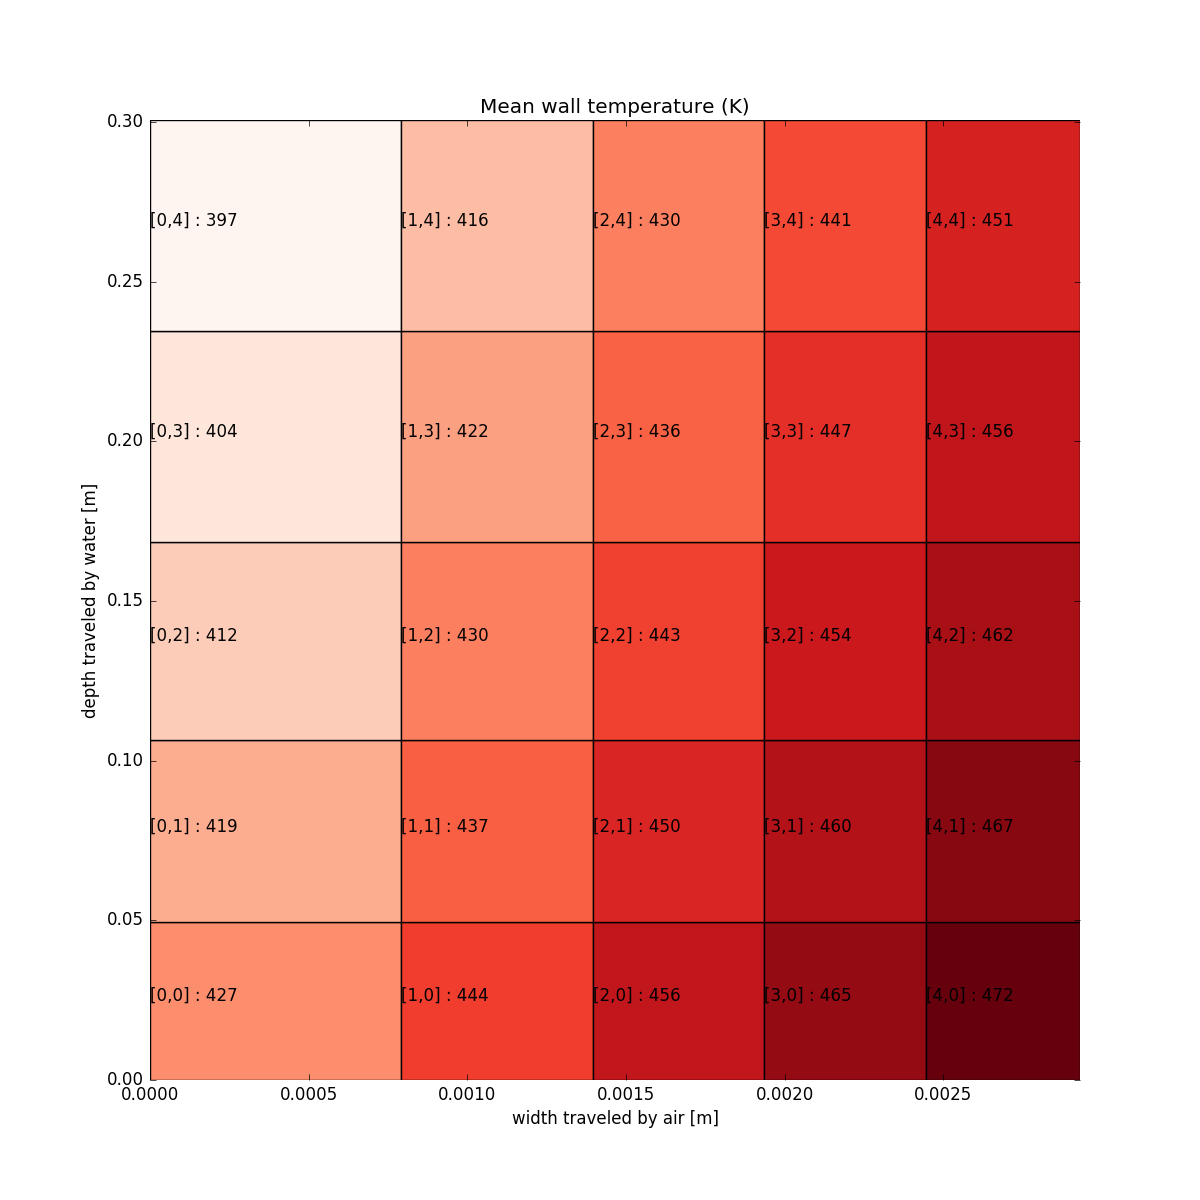
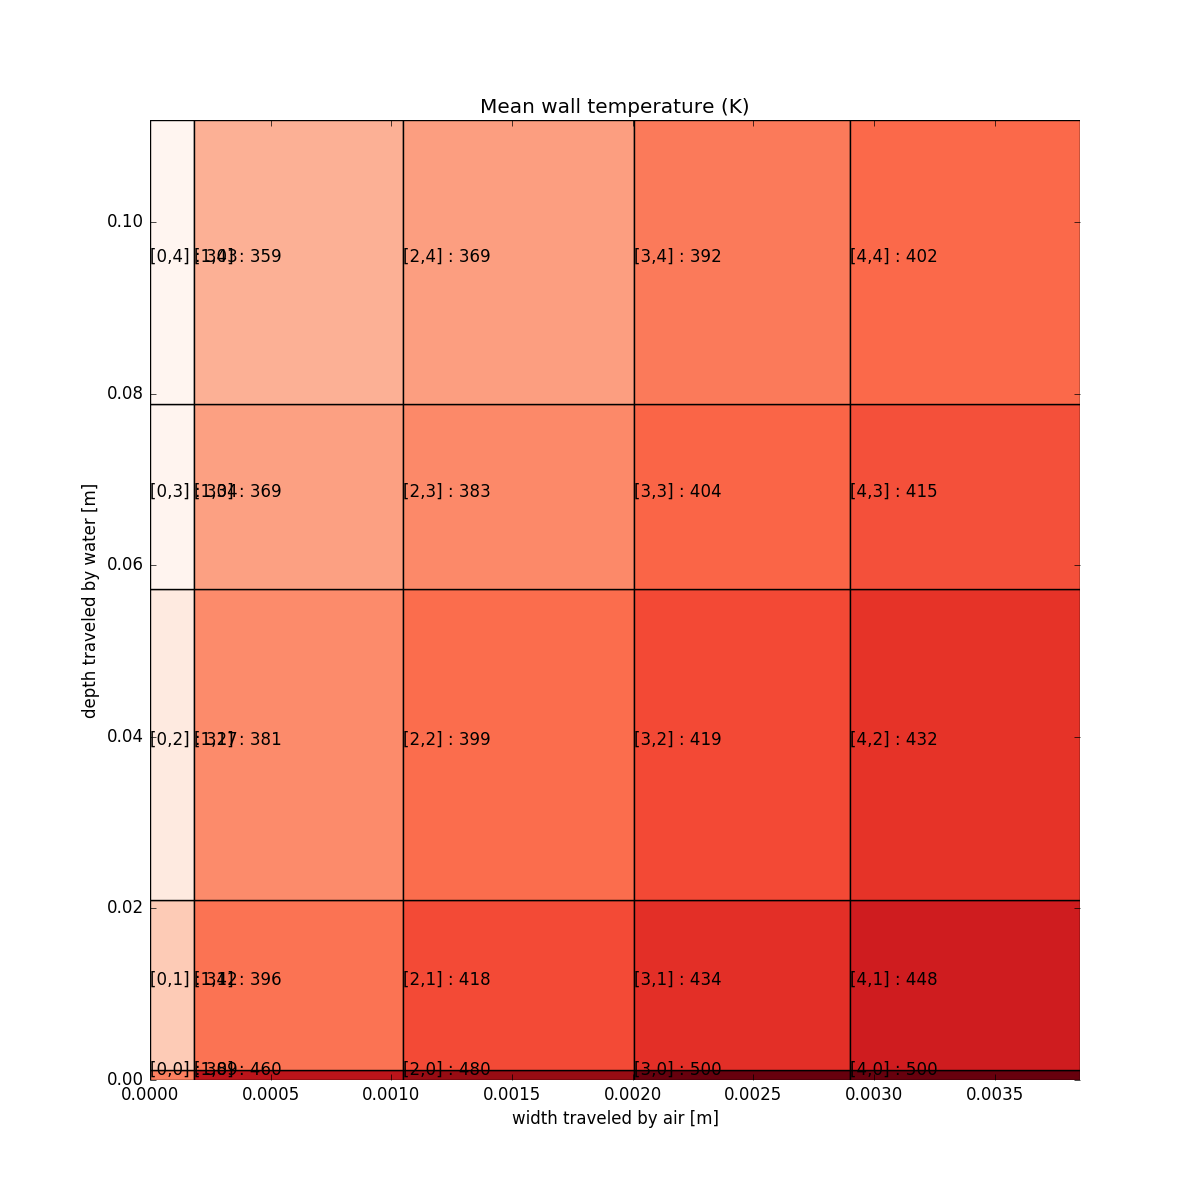
Got something working, finally. Have notional cell heights.

diff --git a/heatexchanger/layer.py b/heatexchanger/layer.py
@@ -50,28 +50,55 @@ class Layer(Model):
             #       it's already alllllmost GP, solving in 3-9 GP solves
             SP_Qsum = Q <= c.dQ.sum()
             for i in range(Nwaterpipes):
-                waterCf.extend([waterpipes.D[i] >= waterpipes.fr[i]*waterpipes.w[i]*waterpipes.h_seg[i,0]])
+                waterCf.extend([waterpipes.D[i] >= waterpipes.fr[i]*waterpipes.A_seg[i,0]])
                 for j in range(Nairpipes):
                     waterCf.extend([waterpipes.l[i,j] <= sum(airpipes.w[0:j+1]),
-                                    waterpipes.dP[i,j] >= 0.5*water.rho*waterpipes.v_avg[i,j]**2*waterpipes.Cf[i,j]*airpipes.w[j]/waterpipes.dh[i],
-                                    waterpipes.D_seg[i,j] == 0.5*water.rho*waterpipes.v_avg[i,j]**2*waterpipes.Cf[i,j]*waterpipes.w[i]*airpipes.w[j],
+                                    waterpipes.dP[i,j] >= 0.5*water.rho*waterpipes.v_avg[i,j]**2*waterpipes.Cf[i,j]*waterpipes.l_seg[i,j]/waterpipes.dh[i,j],
+                                    waterpipes.D_seg[i,j] == 0.5*water.rho*waterpipes.v_avg[i,j]**2*waterpipes.Cf[i,j]*waterpipes.w[i]*waterpipes.l_seg[i,j],
                                             ])
             for i in range(Nairpipes):
-                airCf.extend([airpipes.D[i] >= airpipes.fr[i]*airpipes.w[i]*airpipes.h_seg[i,0]])
+                airCf.extend([airpipes.D[i] >= airpipes.fr[i]*airpipes.A_seg[i,0]])
                 for j in range(Nwaterpipes):
                     airCf.extend([airpipes.l[i,j] <= sum(waterpipes.w[0:j+1]),
-                                airpipes.dP[i,j] == 0.5*air.rho*airpipes.v_avg[i,j]**2*airpipes.Cf[i,j]*waterpipes.w[j]/airpipes.dh[i],
-                                airpipes.D_seg[i,j] == 0.5*air.rho*airpipes.v_avg[i,j]**2*airpipes.Cf[i,j]*airpipes.w[i]*waterpipes.w[j],
+                                  airpipes.dP[i,j] >= 0.5*air.rho*airpipes.v_avg[i,j]**2*airpipes.Cf[i,j]*airpipes.l_seg[i,j]/airpipes.dh[i,j],
+                                  airpipes.D_seg[i,j] == 0.5*air.rho*airpipes.v_avg[i,j]**2*airpipes.Cf[i,j]*airpipes.w[i]*airpipes.l_seg[i,j],
                                             ])
-        geom = [V_tot >= sum(sum(c.V_hot)) + sum(sum(c.V_cold))]
+
+        geom = [V_tot >= sum(sum(waterpipes.V_seg)) + sum(sum(airpipes.V_seg))]
+
+        # Arbitrary bounding for convergence.
+        for i in range(Nwaterpipes):
+            continue
+            geom.extend([waterpipes.w[i] >= 0.1*units('cm'),
+                         waterpipes.h_seg[i,:] >= 0.1*units('cm'),
+                         ])
+        for j in range(Nairpipes):
+            continue
+            geom.extend([airpipes.w[j] >= 0.1*units('cm'),
+                         airpipes.h_seg[j,:] >= 0.1*units('cm'),
+                         ])
         for i in range(Nwaterpipes):
             for j in range(Nairpipes):
-                    geom.extend([c.w_cell[i,j] == waterpipes.w[i],
-                                 c.d_cell[i,j] == airpipes.w[j],
-                                 c.w_cell[i,j] >= 1*units('cm'),
-                                 c.d_cell[i,j] >= 1*units('cm'),
-                                 c.h_cold[i,j] >= 0.1*units('cm'),
-                                 c.h_hot[i,j] >= 0.1*units('cm')])
+                geom.extend([c.x_cell[i,j] == waterpipes.w[i],
+                             c.x_cell[i,j] == airpipes.l_seg[j,i],
+                             c.y_cell[i,j] == airpipes.w[j],
+                             c.y_cell[i,j] == waterpipes.l_seg[i,j],
+                             ])
+
+        # Linking pipes in c
+        for i in range(Nwaterpipes):
+            for j in range(Nairpipes):
+                geom.extend([
+                        c.dQ[i,j] == waterpipes.dQ[i,j],
+                        c.dQ[i,j] == airpipes.dQ[j,i],
+                        c.T_r[i,j] == waterpipes.Tr_int[i,j],
+                        c.T_r[i,j] == airpipes.Tr_int[j,i],
+                        c.T_hot[i,j] == waterpipes.T_avg[i,j],
+                        c.T_cld[i,j] == airpipes.T_avg[j,i],
+                        c.T_hot[i,j] >= c.T_r[i,j],
+                        c.T_r[i,j] >= c.T_cld[i,j],
+                    ])
+
         return [
             # SIZING
             geom,
@@ -80,23 +107,7 @@ class Layer(Model):
 
             # CONSERVATION OF HEAT
             SP_Qsum,
-            c.dQ == waterpipes.dQ,
-            c.dQ == airpipes.dQ.T,   # airpipes are rotated 90deg
-            c.T_r == waterpipes.Tr_int,
-            c.T_r == airpipes.Tr_int.T,
-
-            # HEAT EXCHANGE
-            c, c.A_hx == airpipes.w.outer(waterpipes.w),
-            c.T_hot == waterpipes.T[1:],  # Tcell = Tout (conservative)
-            # NOTE: cell temperature could instead be a geometric mean
-            #       of input and output
-            c.T_cld == airpipes.T[1:].T,  # airpipes are rotated 90deg
-
-            # Coupling geometry
-            c.V_cold == waterpipes.V_seg,
-            c.V_hot == airpipes.V_seg.T,
-            c.h_hot == waterpipes.h_seg,
-            c.h_cold == airpipes.h_seg.T,
+            c,
 
             #DRAG
             waterCf,
@@ -106,7 +117,7 @@ class Layer(Model):
 
 if __name__ == "__main__":
     m = Layer(5, 5)
-    m.cost = 1/m.Q + 100*m.waterpipes.D.sum()*units('1/(N*W)')+ 100*m.airpipes.D.sum()*units('1/(N*W)')
+    m.cost = 1/m.Q + 100*m.waterpipes.D.sum()*units('1/(N*W)')+ 1000*m.airpipes.D.sum()*units('1/(N*W)') + 1000*m.waterpipes.D_seg.sum()*units('1/(N*W)')+ 100*m.airpipes.D_seg.sum()*units('1/(N*W)')
     #m = Model(m.cost,Bounded(m))
     m = relaxed_constants(m)
     sol = m.localsolve(verbosity=4)

diff --git a/heatexchanger/cellplot.py b/heatexchanger/cellplot.py
@@ -1,4 +1,6 @@
 from matplotlib.pyplot import *
+import numpy as np
+from mpl_toolkits.mplot3d import Axes3D
 
 def nsf(num, n=1):
     """n-Significant Figures"""
@@ -42,16 +44,52 @@ def plot_cells(m, Z, cm=cm.RdBu_r, verbosity=0, zscale=None, zoff=None):
     a.set_ylabel("depth traveled by water [m]")
     return f, a
 
+def hist_cells(m, Z, cm=cm.RdBu_r, verbosity=0, zscale=None, zoff=None):
+    "Plots a given array for every heat-exchange cell"
+    sol = m.solution
+    Nwaterpipes = m.original.Nwaterpipes
+    Nairpipes = m.original.Nairpipes
+    Zmin, Zmax = Z.min(), Z.max()
+    dpos = 0
+
+    fig = plt.figure()
+    ax = fig.add_subplot(111, projection='3d')
+    #x = 
+
+    # Construct arrays for the anchor positions of the 16 bars.
+    # Note: np.meshgrid gives arrays in (ny, nx) so we use 'F' to flatten xpos,
+    # ypos in column-major order. For numpy >= 1.7, we could instead call meshgrid
+    # with indexing='ij'.
+    xpos, ypos = np.meshgrid(xedges[:-1] + 0.25, yedges[:-1] + 0.25)
+    xpos = xpos.flatten('F')
+    ypos = ypos.flatten('F')
+    zpos = np.zeros_like(xpos)
+
+
+    ylim([0, wpos])
+    xlim([0, dpos])
+    a.set_frame_on(False)
+    a.set_xlabel("width traveled by air [m]")
+    a.set_ylabel("depth traveled by water [m]")
+    return f, arun
+
 
 if __name__ == "__main__":
     from layer import Layer
     Nw, Na = 5, 5
     print sol(m.original.c.dQ).min(), 0.625/Nw/Na
 
+    # Liquid temperature
     f, a = plot_cells(m, sol(m.original.c.T_hot), cm=cm.Reds, zscale=1/Nw/Na, zoff=0.625/Nw/Na, verbosity=2)
     a.set_title("Liquid Temperature [K]")
     f.savefig("plots/T_liq.png")
 
+    # Air temperature
+    f, a = plot_cells(m, sol(m.original.c.T_cld), cm=cm.Blues, zscale=1/Nw/Na, zoff=0.625/Nw/Na, verbosity=2)
+    a.set_title("Air Temperature [K]")
+    f.savefig("plots/T_air.png")
+
+    # Heat transfer
     Q = sol(m.original.Q).magnitude
     f, a = plot_cells(m, sol(m.original.c.dQ), cm=cm.Reds, zscale=1/Nw/Na, zoff=0.625/Nw/Na, verbosity=2)
     a.set_title("Heat Transfer (%.2f Watts total)" % Q)

diff --git a/heatexchanger/rectpipe.py b/heatexchanger/rectpipe.py
@@ -7,7 +7,6 @@ class RectangularPipe(Model):
     ---------
     mdot                  [kg/s]   mass flow rate
     w                     [m]      pipe width
-    dh                    [m]      hydraulic diameter
     T_in                  [K]      input temperature
     v_in                  [m/s]    input velocity
     v_out                 [m/s]    output velocity
@@ -31,8 +30,10 @@ class RectangularPipe(Model):
     -----------------------------
     dT                    [K]      Change in fluid temperature over segment
     dQ                    [W]      Magnitude of heat transfer over segment
+    T_avg                 [K]      Average temperature over segment
     v_avg                 [m/s]    Average fluid velocity over segment
     l                     [m]      Reference flow length
+    dh                    [m]      hydraulic diameter
     V_seg                 [m^3]    Segment volume
     A_seg                 [m^2]    Segment frontal area
     h_seg                 [m]      Segment height
@@ -45,7 +46,7 @@ class RectangularPipe(Model):
   
     Upper Unbounded
     ---------------
-    w, h, mdot, T_out (if increasingT), l, P0
+    w, mdot, T_out (if increasingT), l, P0
 
     Lower Unbounded
     ---------------
@@ -75,7 +76,8 @@ class RectangularPipe(Model):
         alpha = T[1:]/T[:-1]
 
         with SignomialsEnabled():
-            pressure = [v_in == v[0],
+            pressure = [T_avg**2 == T[1:]*T[:-1],
+                        v_in == v[0],
                         v_out == v[-1],
                         fr == Pf*(0.5*fluid.rho*v_in**2),  # force per frontal area
                         P0[0] <= P_in + 0.5*fluid.rho*v_in**2, # inlet total pressure

diff --git a/heatexchanger/hxarea.py b/heatexchanger/hxarea.py
@@ -1,6 +1,6 @@
 from gpkit import Model, parse_variables, SignomialsEnabled
 
-# Assumes hot water going S->N, and cold air going W->E
+# Assumes hot water going S->N, and cold air going W->E, [0,0] at RH corner
 class HXArea(Model):
     """
     Variables
@@ -10,14 +10,9 @@ class HXArea(Model):
     T_cld       [K]          air temperature in cell
     T_r         [K]          wall temperature in cell
     A_hx        [m^2]        area of contact between liquid and air
-    V_cold      [m^3]        volume of cold cell
-    V_hot       [m^3]        volume of hot cell
-    w_cell      [m]          width of cell in air direction
-    d_cell      [m]          width of cell in water direction 
-    h_cold      [m]          height of cold cell
-    h_hot       [m]          height of hot cell
     dQ          [W]          heat transferred from liquid to air by cell
-
+    x_cell      [m]          x-width of cell
+    y_cell      [m]          y-width of cell
 
     Upper Unbounded
     ---------------
@@ -32,6 +27,5 @@ class HXArea(Model):
         exec parse_variables(HXArea.__doc__)
         with SignomialsEnabled():  # note that this turns into a posynomial
             return [dQ <= (T_hot-T_cld)*h_hx*A_hx,
-                    V_cold == h_cold*d_cell*w_cell,
-                    V_hot  == h_hot*d_cell*w_cell]
+                    A_hx == x_cell * y_cell]
 
